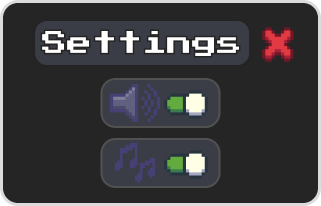
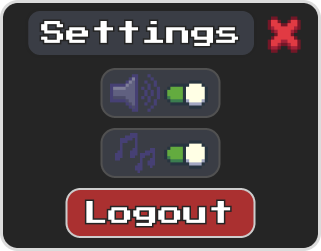
Logout added to the settingspopup

diff --git a/app/src/main/java/com/example/idlegame/MainActivity.kt b/app/src/main/java/com/example/idlegame/MainActivity.kt
@@ -1,6 +1,7 @@
 package com.example.idlegame
 
 import EnemyViewModel
+import android.annotation.SuppressLint
 import android.content.Context
 import android.content.SharedPreferences
 import android.os.Bundle
@@ -90,10 +91,10 @@ class MainActivity : ComponentActivity() {
                     color = Color(0xFF373737)
                 ) {
                     NavHost(navController = navController, startDestination = "login") {
-                        composable("login") { LoginScreen(navController,randomIndex, auth) }
-                        composable("reset") { ResetPasswordScreen(navController,randomIndex, auth) }
-                        composable("register") { RegisterScreen(navController,randomIndex, auth) }
-                        composable("main") { Main(enemyViewModel,playerViewModel, sound, music) }
+                        composable("login") { LoginScreen(navController, randomIndex, auth) }
+                        composable("reset") { ResetPasswordScreen(navController, randomIndex, auth) }
+                        composable("register") { RegisterScreen(navController, randomIndex, auth) }
+                        composable("main") { Main(navController, enemyViewModel, playerViewModel, sound, music, auth) }
                     }
                 }
             }
@@ -106,6 +107,11 @@ class MainActivity : ComponentActivity() {
         saveCheckState("music", music.value)
         savePlayerMoney("playerMoney", playerViewModel.player.money.value)
         savePlayerGems("playerGems", playerViewModel.player.gems.value)
+    }
+
+    @SuppressLint("MissingSuperCall")
+    override fun onBackPressed() {
+        finish()
     }
 
     private fun loadCheckState(key: String): Check {
@@ -143,10 +149,11 @@ class MainActivity : ComponentActivity() {
 }
 
 @Composable
-fun Main(enemyViewModel: EnemyViewModel,playerViewModel: PlayerViewModel, sound: MutableState<Check>, music: MutableState<Check>) {
+fun Main(loginNavController: NavController, enemyViewModel: EnemyViewModel, playerViewModel: PlayerViewModel, sound: MutableState<Check>, music: MutableState<Check>, auth: FirebaseAuth) {
     val navController = rememberNavController()
     val showSettingsDialog = remember { mutableStateOf(false) }
     val design = remember { mutableStateOf(Design.WeaponsTab) }
+
     LaunchedEffect(key1 = "earnMoney") {
         while (true) {
             playerViewModel.earningsPerSecond.value = playerViewModel.earnMoney()
@@ -165,7 +172,14 @@ fun Main(enemyViewModel: EnemyViewModel,playerViewModel: PlayerViewModel, sound:
 
         if (showSettingsDialog.value) {
             Dialog(onDismissRequest = { showSettingsDialog.value = false }) {
-                SettingsPopUp(sound, music, onClose = { showSettingsDialog.value = false })
+                SettingsPopUp(
+                    sound,
+                    music,
+                    onClose = { showSettingsDialog.value = false },
+                    auth = auth,
+                    mainNavController = navController,
+                    loginNavController = loginNavController
+                )
             }
         }
 

diff --git a/app/src/main/java/com/example/idlegame/screen/SettingsPopUp.kt b/app/src/main/java/com/example/idlegame/screen/SettingsPopUp.kt
@@ -1,5 +1,6 @@
 package com.example.idlegame.screen
 
+import android.widget.Toast
 import androidx.compose.foundation.layout.Box
 import androidx.compose.foundation.layout.height
 import androidx.compose.foundation.layout.width
@@ -9,17 +10,24 @@ import androidx.compose.runtime.mutableStateOf
 import androidx.compose.runtime.remember
 import androidx.compose.ui.Alignment
 import androidx.compose.ui.Modifier
+import androidx.compose.ui.platform.LocalContext
 import androidx.compose.ui.tooling.preview.Preview
 import androidx.compose.ui.unit.dp
+import androidx.navigation.NavController
 import com.example.idlegame.settings.Settings
 import com.example.idlegame.ui.theme.IdleGameTheme
 import com.example.idlegame.componentbutton.Check
+import com.google.firebase.auth.FirebaseAuth
 
 @Composable
 fun SettingsPopUp(sound: MutableState<Check>,
                   music: MutableState<Check>,
-                  onClose: () -> Unit){
-    Box(modifier = Modifier.height(200.dp).width(315.dp)) {
+                  auth: FirebaseAuth,
+                  mainNavController: NavController,
+                  loginNavController: NavController,
+                  onClose: () -> Unit) {
+    val context = LocalContext.current
+    Box(modifier = Modifier.height(245.dp).width(315.dp)) {
         Settings(
             onCancel = onClose,
             soundDesign = sound.value,
@@ -30,6 +38,17 @@ fun SettingsPopUp(sound: MutableState<Check>,
             onMusic = {
                 music.value = if (music.value == Check.Enabled) Check.Disabled else Check.Enabled
             },
+            onLogout = {
+                // Uncomment this line to enable logout
+                //auth.signOut()
+                Toast.makeText(context, "Logged out successfully!", Toast.LENGTH_SHORT).show()
+                onClose()
+
+
+                loginNavController.apply {
+                    navigate("login")
+                }
+            }
         )
     }
 }
@@ -38,6 +57,6 @@ fun SettingsPopUp(sound: MutableState<Check>,
 @Composable
 fun SettingsPopUpPreview() {
     IdleGameTheme {
-        SettingsPopUp(remember { mutableStateOf(Check.Enabled) },remember { mutableStateOf(Check.Enabled) },onClose = {})
+        SettingsPopUp(remember { mutableStateOf(Check.Enabled) },remember { mutableStateOf(Check.Enabled) },onClose = {}, auth = FirebaseAuth.getInstance(), mainNavController = NavController(LocalContext.current),loginNavController = NavController(LocalContext.current))
     }
 }

diff --git a/app/src/main/java/com/example/idlegame/screen/Screen.kt b/app/src/main/java/com/example/idlegame/screen/Screen.kt
@@ -1,10 +1,5 @@
 package com.example.idlegame.screen
 
-//enum class Screen {
-//    WeaponsTab,
-//    StoreTab,
-//    UpgradesTab,
-//}
 sealed class Screen(val route: String) {
     object WeaponsTab : Screen("weaponsTab")
     object StoreTab : Screen("storeTab")
